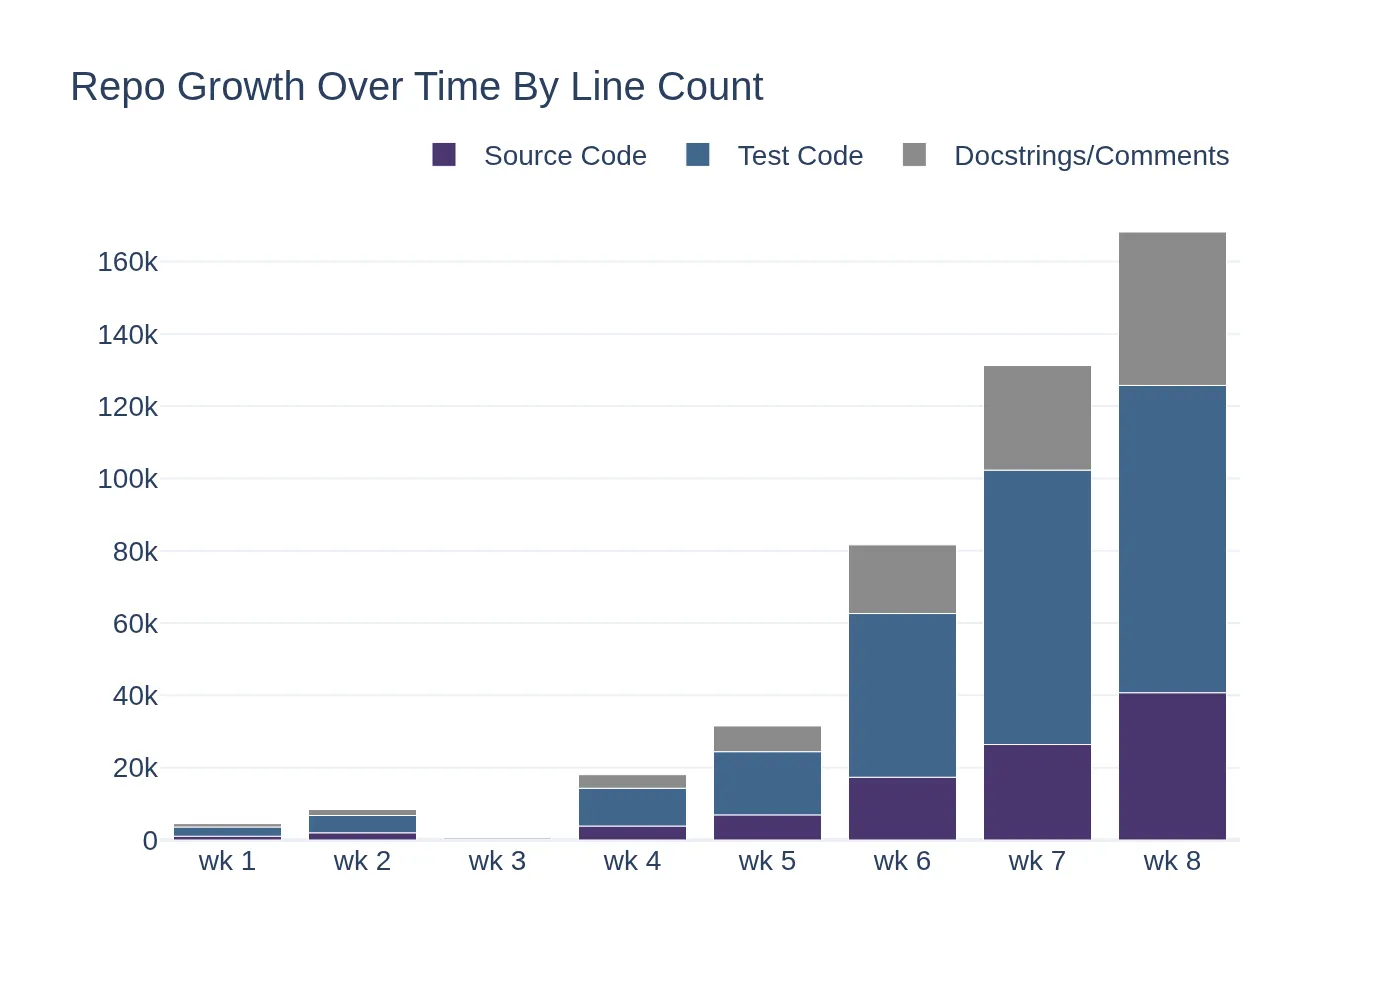
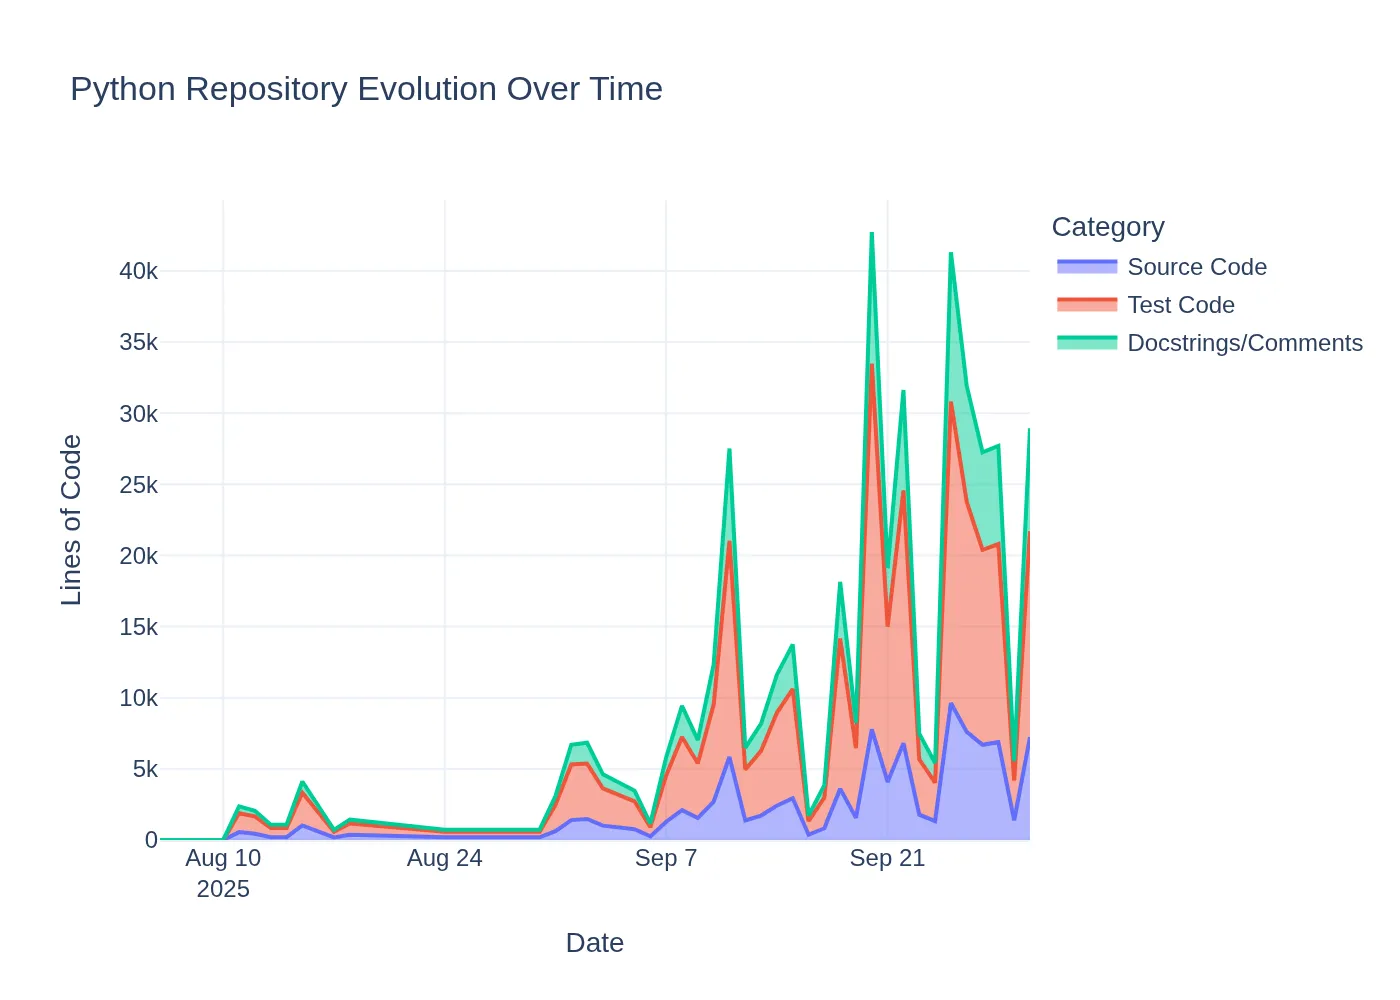
refactor: extract centralised theme module
Theme Module:
- Create theme.py with apply_common_layout() and DEFAULT_LAYOUT constants
- Remove hardcoded layout settings from both chart functions
- Rely on Plotly default colour scheme instead of custom colour maps

Data Processing:
- Change git_history.py to use Path.name for filename extraction
- Simplify modules chart to display filename only (not full path)
- Fix sort order for modules chart (largest at top)

Test Coverage:
- Add test_theme.py for theme application
- Add test_visualise.py for __init__.py filtering logic

Centralising layout settings removes duplication and establishes foundation
for extracting individual chart modules. Simplified theming approach reduces
maintenance overhead while maintaining visual consistency.

🤖 Generated with [Claude Code](https://claude.com/claude-code)

diff --git a/src/plot_py_repo/visualise.py b/src/plot_py_repo/visualise.py
@@ -5,6 +5,8 @@ from pathlib import Path
 import pandas as pd
 import plotly.express as px
 
+from .theme import apply_common_layout
+
 
 def create_images(csv_path: str, output_dir: str) -> None:
     """Create both evolution and module visualisation images from CSV.
@@ -94,21 +96,10 @@ def _plot_evolution(df: pd.DataFrame, output_path: Path) -> None:
         color="category",
         title="Python Repository Evolution Over Time",
         labels={"date": "Date", "line_count": "Lines of Code", "category": "Category"},
-        color_discrete_map={
-            "Source Code": "#41668c",
-            "Test Code": "#4a366f",
-            "Docstrings/Comments": "#8b8b8b",
-        },
         category_orders={"category": ["Source Code", "Test Code", "Docstrings/Comments"]},
     )
 
-    fig.update_layout(
-        template="plotly_white",
-        width=1600,
-        height=900,
-        font={"size": 14},
-        hovermode="x unified",
-    )
+    apply_common_layout(fig)
 
     fig.write_image(str(output_path), scale=2)
 
@@ -129,33 +120,22 @@ def _plot_modules(df: pd.DataFrame, output_path: Path) -> None:
         df_latest.groupby(["filedir", "filename"])["line_count"].sum().reset_index()
     )
 
-    # Create full path display
-    df_modules["module"] = df_modules["filedir"] + "/" + df_modules["filename"]
-
-    # Sort by line count descending
-    df_modules = df_modules.sort_values("line_count", ascending=True)
+    # Sort by line count: largest at top for horizontal bar chart
+    df_modules = df_modules.sort_values("line_count", ascending=False)
 
     # Create horizontal bar chart
     fig = px.bar(
         df_modules,
-        y="module",
+        y="filename",
         x="line_count",
         color="filedir",
         title="Module Breakdown (Latest Commit)",
-        labels={"module": "Module", "line_count": "Lines of Code", "filedir": "Type"},
-        color_discrete_map={"src": "#41668c", "tests": "#4a366f"},
+        labels={"filename": "", "line_count": "Lines of Code", "filedir": "Type"},
         text="line_count",
         orientation="h",
+        category_orders={"filename": df_modules["filename"].tolist()},
     )
 
-    fig.update_layout(
-        template="plotly_white",
-        width=1600,
-        height=900,
-        font={"size": 14},
-        showlegend=True,
-    )
-
-    fig.update_traces(textposition="outside")
+    apply_common_layout(fig)
 
     fig.write_image(str(output_path), scale=2)

diff --git a/src/plot_py_repo/git_history.py b/src/plot_py_repo/git_history.py
@@ -130,7 +130,7 @@ def generate_csv(repo_path: str, output_dir: str) -> str:
                 if not filedir:
                     continue
 
-                simplified_name = file_path.removeprefix(f"{filedir}/")
+                filename = Path(file_path).name
 
                 try:
                     content_output = subprocess.check_output(  # noqa: S603
@@ -146,11 +146,9 @@ def generate_csv(repo_path: str, output_dir: str) -> str:
                 doc_comm_lines = doc_lines + comm_lines
 
                 # Write rows (include even if 0)
+                f.write(f"{dt},{commit_hash},{filedir},{filename},code,{code_lines}\n")
                 f.write(
-                    f"{dt},{commit_hash},{filedir},{simplified_name},code,{code_lines}\n"
-                )
-                f.write(
-                    f"{dt},{commit_hash},{filedir},{simplified_name},docstrings_comments,{doc_comm_lines}\n"
+                    f"{dt},{commit_hash},{filedir},{filename},docstrings_comments,{doc_comm_lines}\n"
                 )
                 lines_written += 2
 

diff --git a/src/plot_py_repo/theme.py b/src/plot_py_repo/theme.py
@@ -1,0 +1,25 @@
+"""Centralised theming for Plotly visualisations."""
+
+from plotly.graph_objects import Figure
+
+# Standard layout settings applied to all charts
+DEFAULT_LAYOUT = {
+    "template": "plotly_white",
+    "width": 1600,
+    "height": 900,
+}
+
+
+def apply_common_layout(fig: Figure) -> Figure:
+    """Apply standard layout settings to a Plotly figure.
+
+    Modifies the figure in-place and returns it (following Plotly's API pattern).
+
+    Args:
+        fig: Plotly figure to apply theme settings to
+
+    Returns:
+        The same figure with layout settings applied (for method chaining)
+    """
+    fig.update_layout(**DEFAULT_LAYOUT)
+    return fig

diff --git a/tests/test_visualise.py b/tests/test_visualise.py
@@ -1,0 +1,24 @@
+"""Tests for visualise module."""
+
+import pandas as pd
+
+
+def test_filter_excludes_init_py() -> None:
+    """DataFrame filter excludes __init__.py files."""
+    df = pd.DataFrame(
+        {
+            "filename": [
+                "module.py",
+                "__init__.py",
+                "test_example.py",
+            ],
+            "line_count": [100, 1, 50],
+        }
+    )
+
+    filtered = df[df["filename"] != "__init__.py"]
+    filenames = list(filtered["filename"])
+
+    assert "__init__.py" not in filenames
+    assert "module.py" in filenames
+    assert "test_example.py" in filenames

diff --git a/tests/test_theme.py b/tests/test_theme.py
@@ -1,0 +1,16 @@
+"""Tests for theme module."""
+
+import plotly.graph_objects as go
+
+from plot_py_repo.theme import apply_common_layout
+
+
+def test_apply_common_layout_applies_theme_to_figure() -> None:
+    """apply_common_layout() applies theme settings to figure."""
+    fig = go.Figure()
+    result = apply_common_layout(fig)
+
+    assert result.layout["width"] == 1600
+    assert result.layout["height"] == 900
+    assert result.layout["template"] is not None
+    assert result is fig  # Confirms in-place modification

diff --git a/docs/architecture/arch-03.md b/docs/architecture/arch-03.md
@@ -22,7 +22,7 @@ cli.py
                │           │    • Group by date
                │           │    • Aggregate categories
                │           └─ _plot_and_save(df_prepared, path)
-               │                • Uses theme.COLORS, theme.apply_common_layout()
+               │                • Uses theme.apply_common_layout()
                │
                ├──> chart_modules.py
                │      │ from . import theme  ← imports theme
@@ -32,18 +32,17 @@ cli.py
                │           │    • Group by module
                │           │    • Sort by line count
                │           └─ _plot_and_save(df_prepared, path)
-               │                • Uses theme.COLORS, theme.apply_common_layout()
+               │                • Uses theme.apply_common_layout()
                │
                └──> chart_complexity.py (future)
                       │ from . import theme  ← imports theme
                       └─ create(df, output_path)
                            ├─ _prepare_data(df) → df_prepared
                            └─ _plot_and_save(df_prepared, path)
-                                • Uses theme.COLORS, theme.apply_common_layout()
+                                • Uses theme.apply_common_layout()
 
 theme.py (CENTRALIZED THEMING)
-  • COLORS: Color palette for all charts
-  • DEFAULT_LAYOUT: width, height, font, template
+  • DEFAULT_LAYOUT: width, height, template
   • apply_common_layout(fig): Apply standard settings
   • Chart modules import directly (NOT passed as parameter)
 ```
